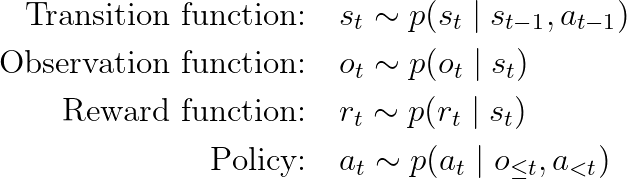
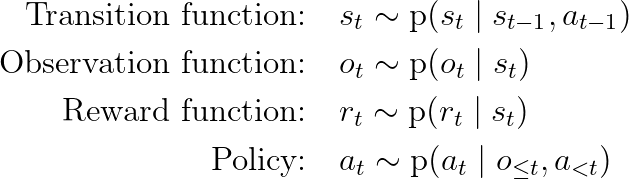
docs: add Step 1 heading + new f20.png (learned model italic) and re-render f19 upright
- f19.png re-rendered with upright \mathrm{p} to visually mark 'real
  environment distribution' (POMDP problem setup).
- New f20.png with italic p_theta and subscript theta to visually mark
  'PlaNet's learned world model'.
- Section 2 of End-to-End Joint Training now opens with 'Step 1:
  Vanilla 隐变量序列模型' subsection. The prose listing the 3 NN
  distributions is replaced with the f20.png formula image. A 📝
  notation convention note explains the upright-p vs italic-p_theta
  distinction. Sync ZH + EN. Not pushing yet.

diff --git a/World-Model-Study-Notes.md b/World-Model-Study-Notes.md
@@ -1544,7 +1544,15 @@ World Models trains in three independent stages: Stage 1 trains the VAE, Stage 2
 
 #### 2. PlaNet's fix: share one ELBO
 
-To **end-to-end learn a world model that simulates the POMDP**, the simplest form is a **latent variable sequence model** — each of the POMDP triple from §🧭 Problem Setup is parameterized by an NN: p(s_t ∣ s_{t-1}, a_{t-1}), p(o_t ∣ s_t), p(r_t ∣ s_t), directly learning the POMDP's transition, observation, and reward functions. **No h yet, no RSSM** — just the simplest latent SSM.
+##### Step 1: Vanilla Latent Variable Sequence Model
+
+To end-to-end learn a world model that simulates the POMDP, the simplest form is a **latent variable sequence model** — NN-parameterize the real-environment distribution from §🧭 Problem Setup (upright p) into a learnable world model (italic p_θ):
+
+<p align="center"><img src="asset/formulas/f20.png" width="520"/></p>
+
+**No h yet, no RSSM** — just the simplest latent SSM.
+
+> 📝 **Notation convention**: this note uses **upright p** (e.g., `p(s_t | ...)`, as in §🧭 Problem Setup) for the real-environment distribution (the POMDP), and **italic p_θ** (e.g., `p_θ(s_t | ...)`) for PlaNet's learned world model — training amounts to making p_θ ≈ p.
 
 > Analogous to the VAE: first put up the "latent + Gaussian decoder" skeleton, then talk about training. Same idea here — define the model form first.
 

diff --git a/World-Model-学习笔记.md b/World-Model-学习笔记.md
@@ -1543,7 +1543,15 @@ World Models 用三阶段独立训练:Stage 1 训 VAE,Stage 2 冻住 VAE 训 MDN
 
 #### 2. PlaNet 的解法:共享一个 ELBO
 
-为了**端到端地学一个能模拟 POMDP 的世界模型**,最简单的形式就是一个**有隐变量的序列模型** —— 把 §🧭 问题定义里的 POMDP 三件套各用一个 NN 参数化:p(s_t ∣ s_{t-1}, a_{t-1})、p(o_t ∣ s_t)、p(r_t ∣ s_t),直接去学这个 POMDP 的转移、观测、奖励三个函数。**此时还没有 h,没有 RSSM**,只是一个最朴素的隐变量 SSM。
+##### Step 1:Vanilla 隐变量序列模型
+
+为了端到端地学一个能模拟 POMDP 的世界模型,最简单的形式就是一个**有隐变量的序列模型** —— 用 NN 把 §🧭 问题定义里的真实环境(直体 p)参数化成可学的世界模型(斜体 p_θ):
+
+<p align="center"><img src="asset/formulas/f20.png" width="520"/></p>
+
+**此时还没有 h,没有 RSSM**,只是一个最朴素的隐变量 SSM。
+
+> 📝 **符号约定**:本笔记用**直体 p**(如 `p(s_t | ...)`,见 §🧭 问题定义)表示真实环境的分布(POMDP);用**斜体 p_θ**(如 `p_θ(s_t | ...)`)表示 PlaNet 学到的世界模型 —— 训练就是让 p_θ ≈ p。
 
 > 类比 VAE:先有"latent + Gaussian decoder"的骨架,再谈训练。这里也是先把模型形式立起来。
 
